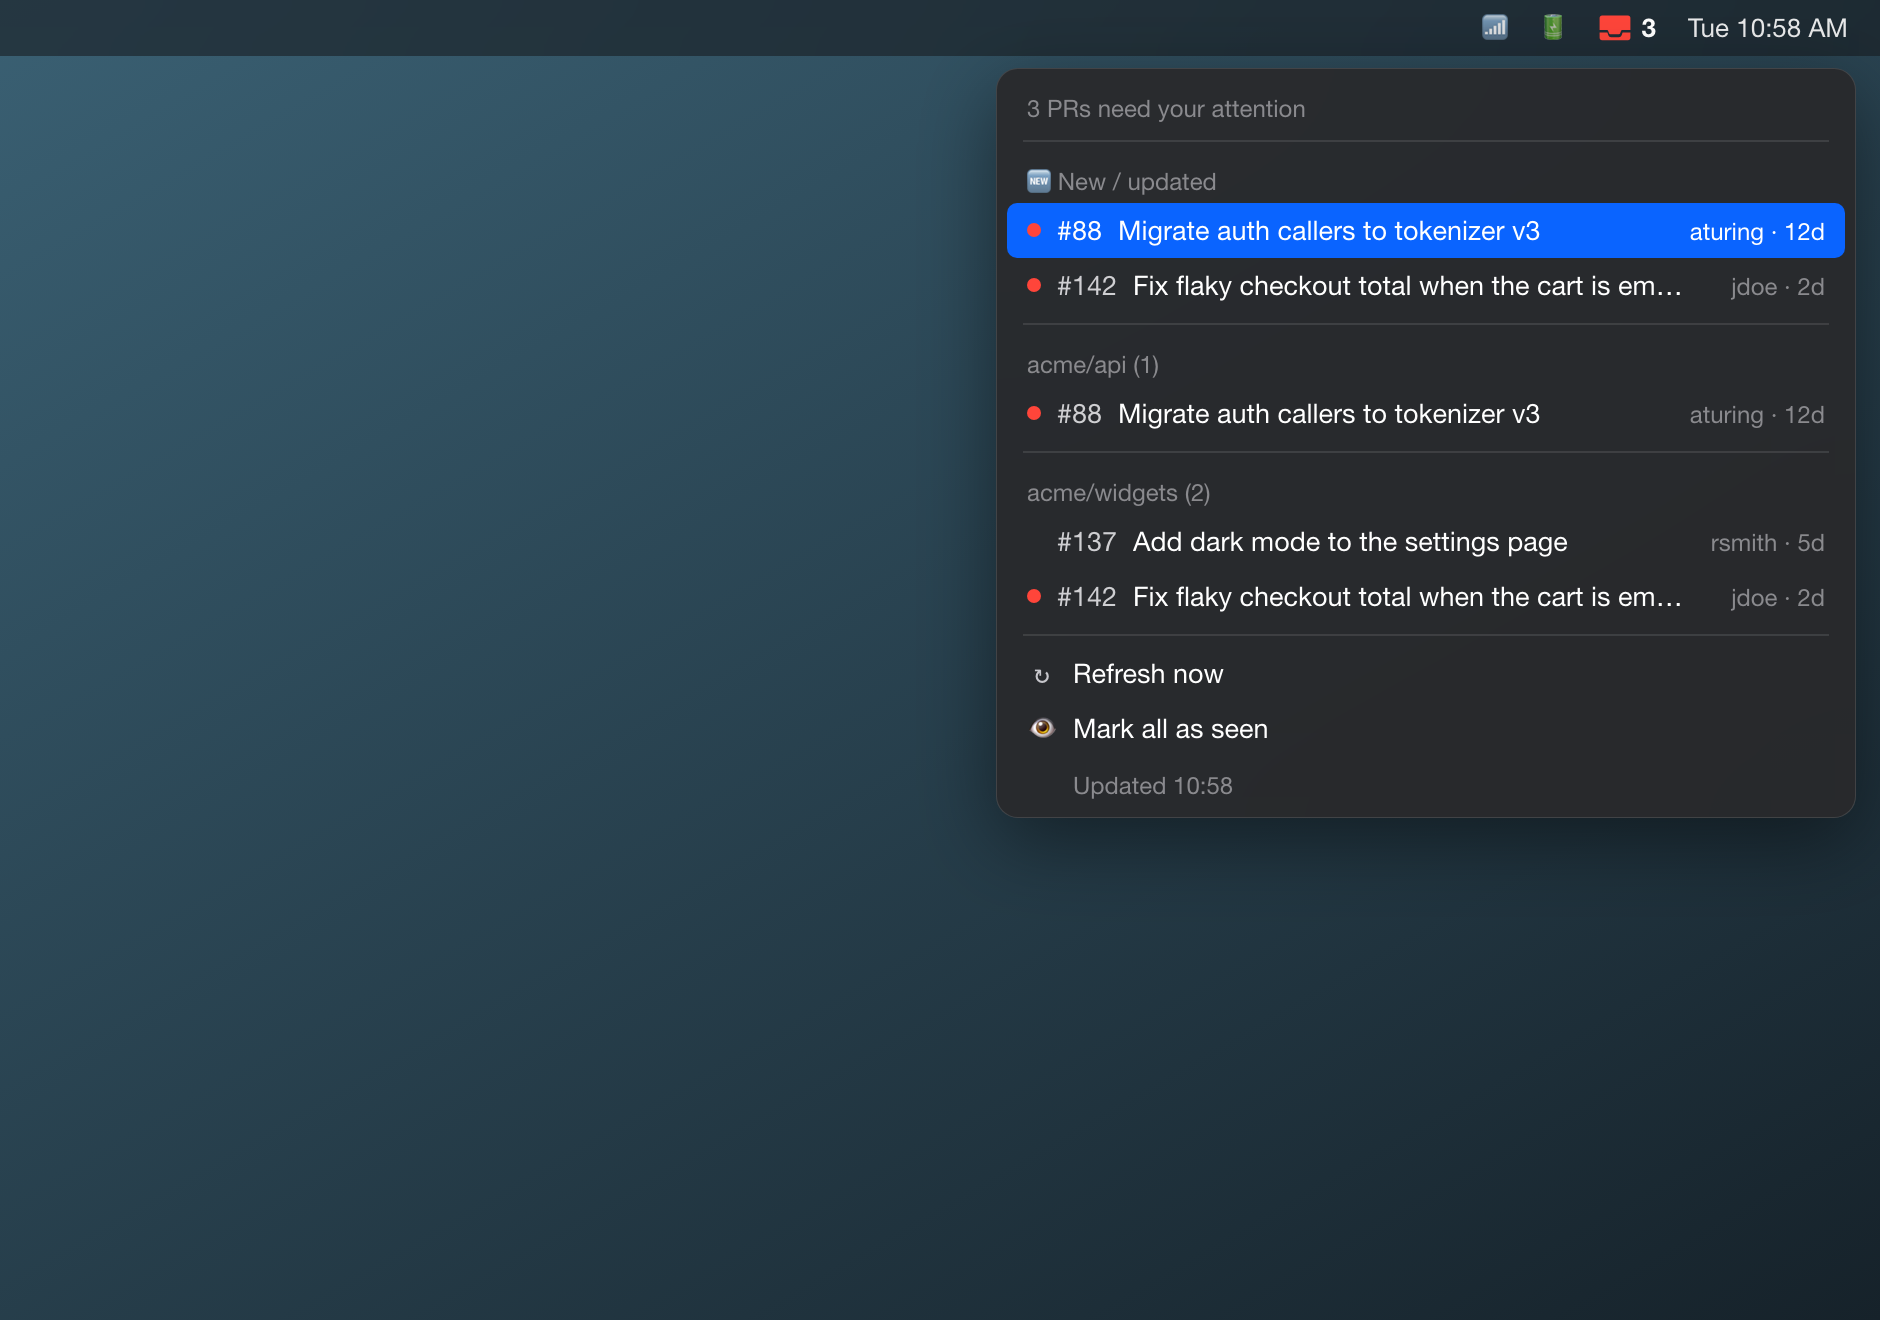
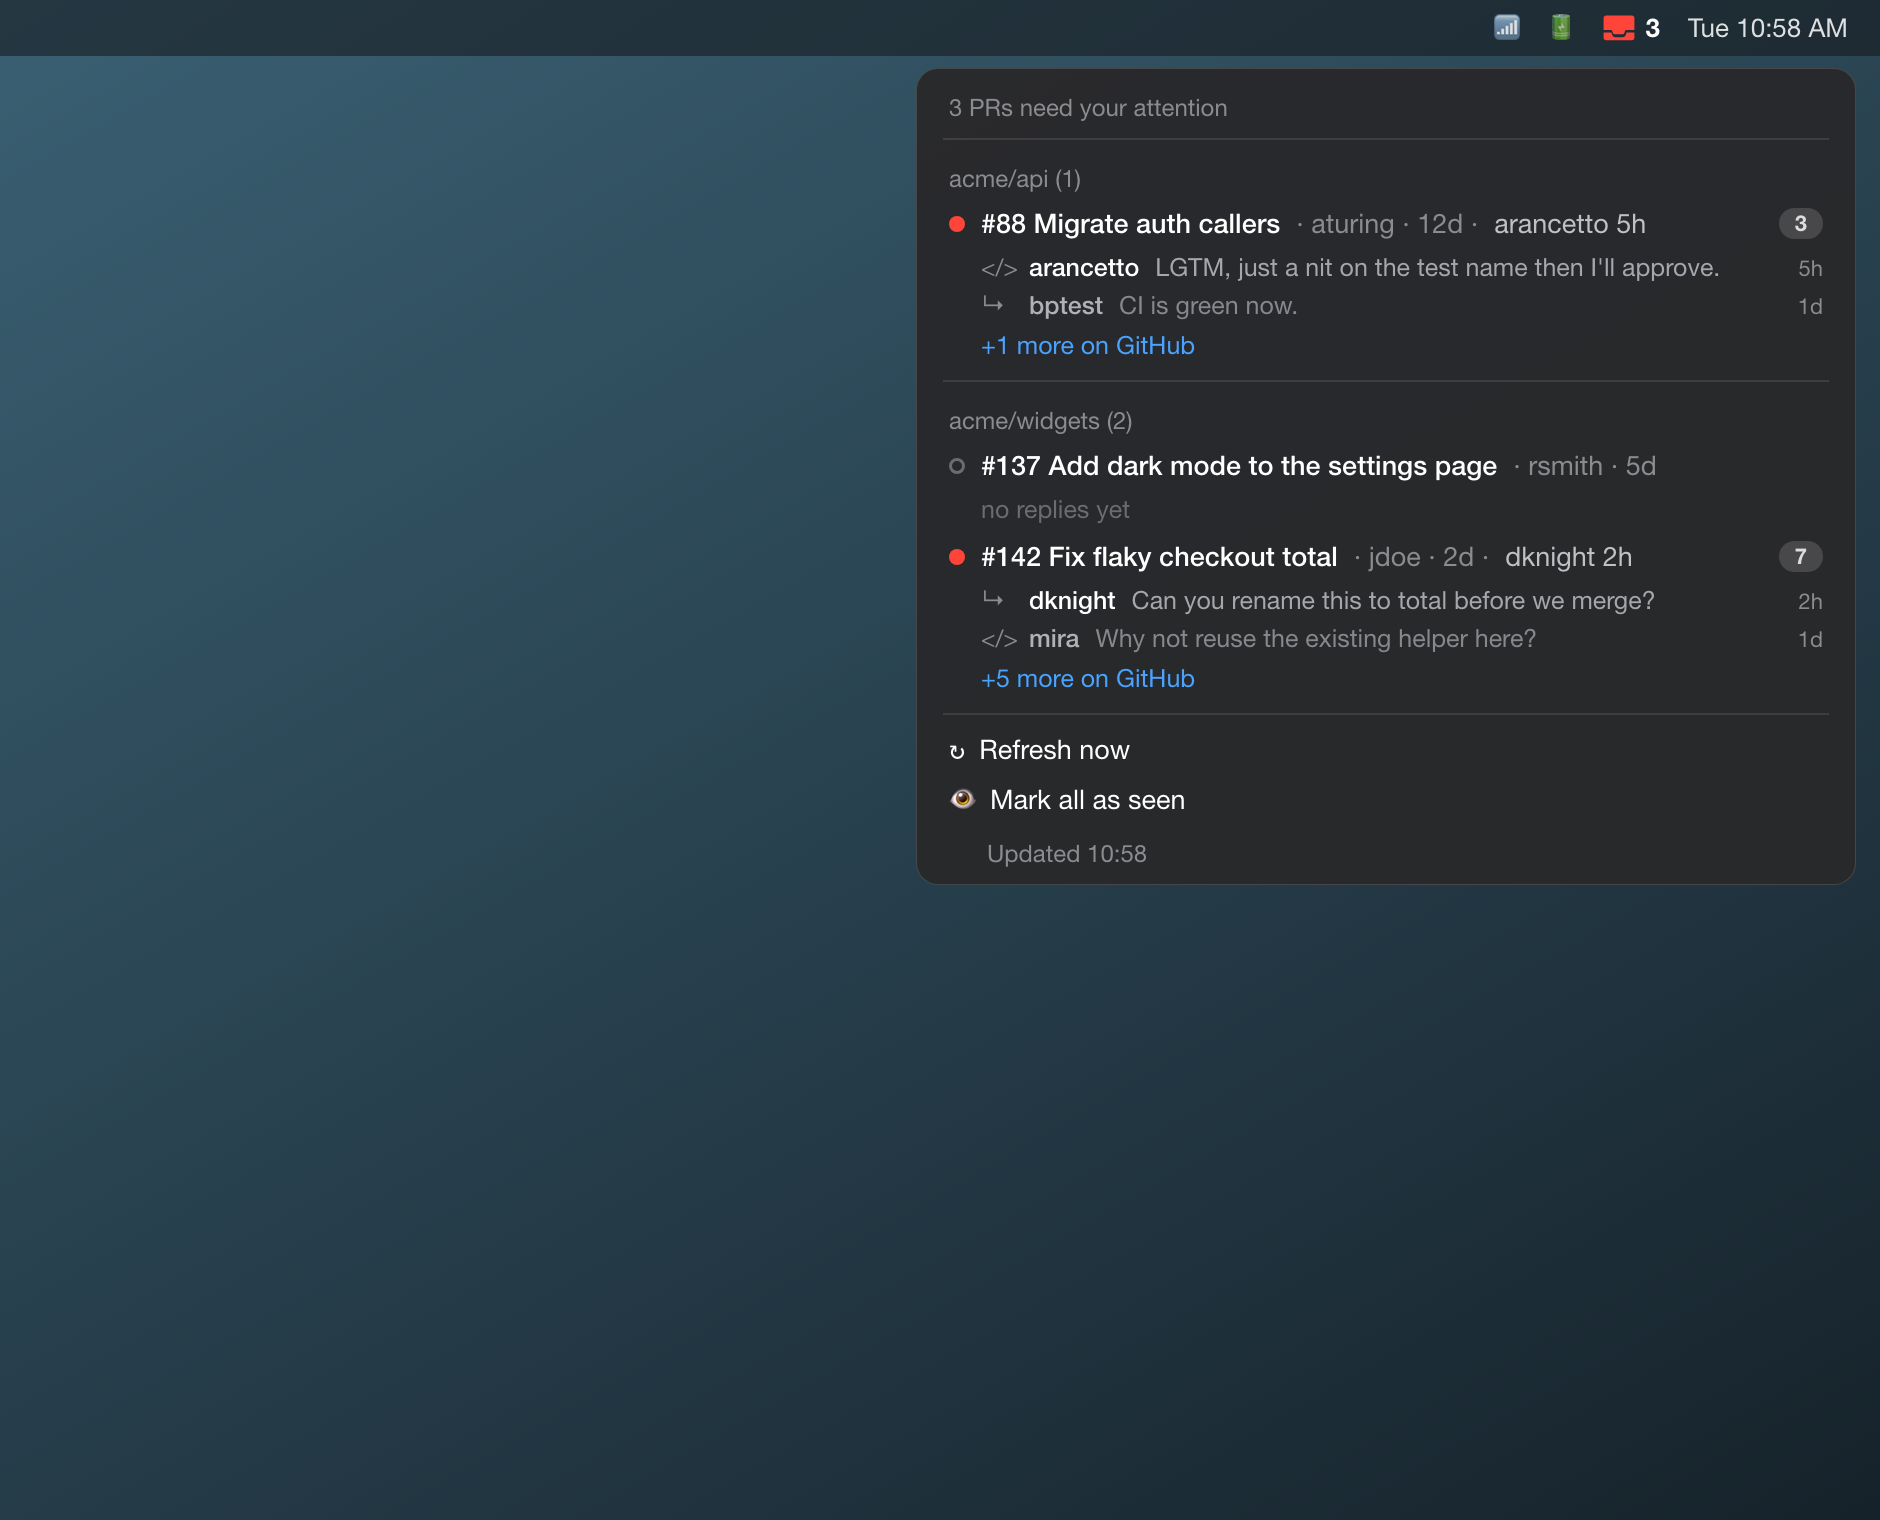
Add per-PR comment previews to the menu (Version 3 "row summary")
Each PR row now previews its recent comments — conversation replies + inline
review comments — so you can see who responded without opening GitHub:

- PR row shows the latest replier + time, a comment-count badge, and the
  unread dot; up to 2 recent comments follow (review vs reply glyph), each
  linking to that exact comment; "+n more" opens the conversation tab; PRs
  with none show "no replies yet".
- Comments ride the cache-first model: the background --fetch enriches each PR
  via /issues/{n}/comments + /pulls/{n}/comments and caches them, so the menu
  still opens instantly. Unread tracking extends seen.json to comment times.
- Widen the digest with is:open is:pr author:@user so replies on PRs you opened
  surface too.

gh_prs.py: humanize(), fetch_comments(), attach_comments(), author query.
swiftbar_plugin.py: pr_block() render, comment-aware save_seen, demo_data().

diff --git a/swiftbar_plugin.py b/swiftbar_plugin.py
@@ -28,10 +28,11 @@ import os
 import subprocess
 import sys
 from collections import defaultdict
-from datetime import datetime, timezone
+from datetime import datetime, timedelta, timezone
 from pathlib import Path
 
-from gh_prs import DigestError, collect_prs, get_token, load_env
+from gh_prs import (DigestError, attach_comments, collect_prs, get_token,
+                    humanize, load_env)
 
 REPO_DIR = Path(__file__).resolve().parent
 LAUNCHER = REPO_DIR / "swiftbar-plugins" / "prdigest.1h.sh"
@@ -46,24 +47,45 @@ REFRESH_TTL = 45
 # in-flight marker is cleared so the spinner can never wedge permanently.
 MARKER_TTL = 60
 
-# Fake data for screenshots/docs — set PR_DIGEST_DEMO=1 to render without a
-# token or network call. Two of these count as "new" (see DEMO_SEEN).
-DEMO_PRS = [
-    {"repo": "acme/widgets", "number": 142, "author": "jdoe", "age_days": 2,
-     "title": "Fix flaky checkout total when the cart is empty",
-     "url": "https://github.com/acme/widgets/pull/142",
-     "updated_at": "2026-06-23T09:00:00Z"},
-    {"repo": "acme/widgets", "number": 137, "author": "rsmith", "age_days": 5,
-     "title": "Add dark mode to the settings page",
-     "url": "https://github.com/acme/widgets/pull/137",
-     "updated_at": "2026-06-18T12:00:00Z"},
-    {"repo": "acme/api", "number": 88, "author": "aturing", "age_days": 12,
-     "title": "Migrate auth callers to tokenizer v3",
-     "url": "https://github.com/acme/api/pull/88",
-     "updated_at": "2026-06-22T17:30:00Z"},
-]
-# #137 already seen, so only #142 and #88 light up as new.
-DEMO_SEEN = {"https://github.com/acme/widgets/pull/137": "2026-06-18T12:00:00Z"}
+def demo_data() -> tuple[list[dict], dict[str, str]]:
+    """Fake PRs + comments for screenshots/docs (PR_DIGEST_DEMO=1) — no token,
+    no network. Timestamps are relative to now so previews read '2h', '1d'."""
+    now = datetime.now(timezone.utc)
+
+    def ago(**kw) -> str:
+        return (now - timedelta(**kw)).isoformat()
+
+    prs = [
+        {"repo": "acme/widgets", "number": 142, "author": "jdoe", "age_days": 2,
+         "title": "Fix flaky checkout total when the cart is empty",
+         "url": "https://github.com/acme/widgets/pull/142",
+         "updated_at": ago(hours=2), "comment_count": 7, "comments": [
+            {"author": "dknight", "type": "reply", "created_at": ago(hours=2),
+             "html_url": "https://github.com/acme/widgets/pull/142#c1",
+             "body": "Can you rename this to total before we merge? Otherwise looks great."},
+            {"author": "mira", "type": "review", "created_at": ago(days=1),
+             "html_url": "https://github.com/acme/widgets/pull/142#c2",
+             "body": "Why not reuse the existing helper here?"}]},
+        {"repo": "acme/widgets", "number": 137, "author": "rsmith", "age_days": 5,
+         "title": "Add dark mode to the settings page",
+         "url": "https://github.com/acme/widgets/pull/137",
+         "updated_at": ago(days=5), "comment_count": 0, "comments": []},
+        {"repo": "acme/api", "number": 88, "author": "aturing", "age_days": 12,
+         "title": "Migrate auth callers to tokenizer v3",
+         "url": "https://github.com/acme/api/pull/88",
+         "updated_at": ago(hours=5), "comment_count": 3, "comments": [
+            {"author": "arancetto", "type": "review", "created_at": ago(hours=5),
+             "html_url": "https://github.com/acme/api/pull/88#c1",
+             "body": "LGTM, just a nit on the test name then I'll approve."},
+            {"author": "bptest", "type": "reply", "created_at": ago(days=1),
+             "html_url": "https://github.com/acme/api/pull/88#c2",
+             "body": "CI is green now."}]},
+    ]
+    for pr in prs:
+        pr["latest"] = pr["comments"][0] if pr["comments"] else None
+    # #137 already seen (calm); #142 & #88 have unread replies.
+    seen = {"https://github.com/acme/widgets/pull/137": ago(days=5)}
+    return prs, seen
 
 
 # --------------------------------------------------------------------------- #
@@ -88,7 +110,15 @@ def load_seen() -> dict[str, str]:
 
 
 def save_seen(prs: list[dict]) -> None:
-    seen = {pr["url"]: pr["updated_at"] for pr in prs}
+    # Store the newest signal per PR — its own updated_at OR its latest comment,
+    # whichever is later — so replies older than that read as "seen".
+    seen: dict[str, str] = {}
+    for pr in prs:
+        ts = pr.get("updated_at", "")
+        latest = pr.get("latest")
+        if latest and latest.get("created_at", "") > ts:
+            ts = latest["created_at"]
+        seen[pr["url"]] = ts
     try:
         (state_dir() / "seen.json").write_text(json.dumps(seen), encoding="utf-8")
     except OSError:
@@ -174,6 +204,7 @@ def fetch_and_cache(trigger_redraw: bool) -> None:
     try:
         token = get_token()
         prs = collect_prs(token)
+        attach_comments(token, prs)  # enrich with recent comments
         save_cache(prs, error=None)
     except DigestError as exc:
         # Keep the last-good list; attach a one-line error so the menu can warn.
@@ -234,7 +265,7 @@ def emit(text: str = "", **params: str) -> None:
 
 def render_menu(prs: list[dict], seen: dict[str, str], *, spinner: bool,
                 error: str | None) -> None:
-    new_prs = [pr for pr in prs if is_new(pr, seen)]
+    any_new = any(is_new(pr, seen) for pr in prs)
     count = len(prs)
 
     # --- menu bar title (single line) ---
@@ -244,7 +275,7 @@ def render_menu(prs: list[dict], seen: dict[str, str], *, spinner: bool,
         emit(sfimage="exclamationmark.triangle", sfcolor="orange")
     elif count == 0:
         emit(sfimage="checkmark.circle", sfcolor="green")
-    elif new_prs:
+    elif any_new:
         emit(str(count), sfimage="tray.full.fill", sfcolor="red")
     else:
         emit(str(count), sfimage="tray.full")
@@ -263,13 +294,6 @@ def render_menu(prs: list[dict], seen: dict[str, str], *, spinner: bool,
         emit("No PRs need your attention", color="#888888")
     elif count:
         emit(f"{count} PR(s) need your attention", color="#888888")
-
-        if new_prs:
-            print("---")
-            emit("🆕 New / updated", color="#888888")
-            for pr in sorted(new_prs, key=lambda p: p["age_days"], reverse=True):
-                pr_line(pr, new=True)
-
         by_repo: dict[str, list[dict]] = defaultdict(list)
         for pr in prs:
             by_repo[pr["repo"]].append(pr)
@@ -278,7 +302,7 @@ def render_menu(prs: list[dict], seen: dict[str, str], *, spinner: bool,
             repo_prs = by_repo[repo]
             emit(f"{repo}  ({len(repo_prs)})", color="#888888")
             for pr in sorted(repo_prs, key=lambda p: p["age_days"], reverse=True):
-                pr_line(pr, new=is_new(pr, seen))
+                pr_block(pr, seen)
 
     # --- footer actions ---
     print("---")
@@ -301,14 +325,49 @@ def cache_label() -> str:
         return "—"
 
 
-def pr_line(pr: dict, new: bool) -> None:
+def pr_block(pr: dict, seen: dict[str, str]) -> None:
+    """Version 3 'row summary': the PR row carries the latest replier + a
+    comment count badge + unread dot; up to 2 recent comments follow, then
+    '+n more' (or 'no replies yet')."""
+    seen_ts = seen.get(pr["url"], "")
+    comments = pr.get("comments", [])
+    count = pr.get("comment_count", 0)
+    latest = pr.get("latest")
     age = "today" if pr["age_days"] == 0 else f"{pr['age_days']}d"
-    title = truncate(sanitize(pr["title"]))
-    label = f"#{pr['number']}  {title}  ·  {pr['author']} · {age}"
-    if new:
-        emit(label, href=pr["url"], sfimage="circle.fill", sfcolor="red")
+
+    # --- the PR row ---
+    summary = ""
+    if latest:
+        summary = f"  ·  {latest['author']} {humanize(latest['created_at'])}"
+    label = f"#{pr['number']}  {truncate(sanitize(pr['title']), 44)}  ·  {pr['author']} · {age}{summary}"
+    params: dict[str, str] = {"href": pr["url"]}
+    if count:
+        params["badge"] = str(count)
+    if latest:
+        params["tooltip"] = sanitize(latest["body"])[:200]
+    if is_new(pr, seen):
+        params["sfimage"], params["sfcolor"] = "circle.fill", "red"
     else:
-        emit(label, href=pr["url"])
+        params["sfimage"], params["sfcolor"] = "circle", "#6b6b70"
+    emit(label, **params)
+
+    # --- up to 2 recent comments ---
+    for c in comments[:2]:
+        glyph = ("chevron.left.forwardslash.chevron.right"
+                 if c["type"] == "review" else "arrowshape.turn.up.left")
+        line = f"{c['author']}  {truncate(sanitize(c['body']), 46)} · {humanize(c['created_at'])}"
+        cp: dict[str, str] = {"href": c["html_url"], "sfimage": glyph,
+                              "tooltip": sanitize(c["body"])[:280]}
+        if c["created_at"] <= seen_ts:  # already seen → muted
+            cp["color"] = "#8b8b90"
+        emit(line, **cp)
+
+    # --- tail ---
+    if count > 2:
+        emit(f"+{count - 2} more on GitHub", href=pr["url"],
+             sfimage="arrow.up.right.square", color="#4aa3ff")
+    elif count == 0:
+        emit("no replies yet", color="#6b6b70")
 
 
 # --------------------------------------------------------------------------- #
@@ -317,7 +376,8 @@ def main() -> int:
     reason = os.environ.get("SWIFTBAR_PLUGIN_REFRESH_REASON", "")
 
     if os.environ.get("PR_DIGEST_DEMO"):
-        render_menu(DEMO_PRS, DEMO_SEEN, spinner="--spinner" in args, error=None)
+        demo_prs, demo_seen = demo_data()
+        render_menu(demo_prs, demo_seen, spinner="--spinner" in args, error=None)
         return 0
 
     if "--fetch" in args:

diff --git a/gh_prs.py b/gh_prs.py
@@ -27,6 +27,7 @@ ENV_PATH = REPO_DIR / ".env"
 QUERIES = {
     "Review requested": "is:open is:pr review-requested:@me",
     "Assigned to you": "is:open is:pr assignee:@me",
+    "Opened by you": "is:open is:pr author:@me",
 }
 
 
@@ -143,10 +144,91 @@ def normalize(item: dict) -> dict:
 
 
 def collect_prs(token: str) -> list[dict]:
-    """Run both searches and de-duplicate by PR URL."""
+    """Run every search and de-duplicate by PR URL."""
     by_url: dict[str, dict] = {}
     for query in QUERIES.values():
         for item in search_prs(query, token):
             pr = normalize(item)
             by_url.setdefault(pr["url"], pr)
     return list(by_url.values())
+
+
+def humanize(iso: str) -> str:
+    """Compact relative time from an ISO timestamp: 'just now', '5m', '2h', '3d'."""
+    if not iso:
+        return ""
+    try:
+        when = datetime.fromisoformat(iso.replace("Z", "+00:00"))
+    except ValueError:
+        return ""
+    secs = (datetime.now(timezone.utc) - when).total_seconds()
+    if secs < 60:
+        return "just now"
+    mins = secs / 60
+    if mins < 60:
+        return f"{int(mins)}m"
+    if mins < 1440:
+        return f"{int(mins // 60)}h"
+    if mins < 10080:
+        return f"{int(mins // 1440)}d"
+    return f"{int(mins // 10080)}w"
+
+
+def _auth_headers(token: str) -> dict:
+    return {
+        "Authorization": f"Bearer {token}",
+        "Accept": "application/vnd.github+json",
+        "X-GitHub-Api-Version": "2022-11-28",
+    }
+
+
+def _get_list(url: str, token: str) -> list[dict]:
+    """GET a JSON array endpoint with the shared error handling."""
+    try:
+        resp = requests.get(url, headers=_auth_headers(token), timeout=TIMEOUT)
+    except requests.RequestException as exc:
+        raise DigestError(f"Network error talking to GitHub: {exc}") from exc
+    _raise_for_api_errors(resp)
+    payload = resp.json()
+    return payload if isinstance(payload, list) else []
+
+
+def _normalize_comment(item: dict, kind: str) -> dict:
+    return {
+        "author": (item.get("user") or {}).get("login", "unknown"),
+        "body": (item.get("body") or "").strip(),
+        "html_url": item.get("html_url", ""),
+        "created_at": item.get("created_at", ""),
+        "type": kind,  # "reply" (conversation) or "review" (inline code comment)
+    }
+
+
+def fetch_comments(token: str, repo: str, number: int) -> dict:
+    """Recent conversation replies + inline review comments for one PR.
+
+    Returns {"comments": <up to 5, newest first>, "count": <total fetched>}.
+    """
+    issues = _get_list(
+        f"{API_ROOT}/repos/{repo}/issues/{number}/comments?per_page=100", token)
+    reviews = _get_list(
+        f"{API_ROOT}/repos/{repo}/pulls/{number}/comments?per_page=100", token)
+    merged = (
+        [_normalize_comment(c, "reply") for c in issues]
+        + [_normalize_comment(c, "review") for c in reviews]
+    )
+    merged.sort(key=lambda c: c["created_at"], reverse=True)
+    return {"comments": merged[:5], "count": len(merged)}
+
+
+def attach_comments(token: str, prs: list[dict]) -> list[dict]:
+    """Enrich each PR in place with its recent comments. Per-PR errors are
+    swallowed so one bad PR can't blank the whole digest."""
+    for pr in prs:
+        try:
+            data = fetch_comments(token, pr["repo"], pr["number"])
+        except DigestError:
+            data = {"comments": [], "count": 0}
+        pr["comments"] = data["comments"]
+        pr["comment_count"] = data["count"]
+        pr["latest"] = data["comments"][0] if data["comments"] else None
+    return prs

diff --git a/README.md b/README.md
@@ -22,12 +22,13 @@ The icon at a glance:
 
 ## What it does
 
-Using the GitHub REST search API (`GET /search/issues`), it runs two queries:
+Using the GitHub REST search API (`GET /search/issues`), it runs three queries:
 
 - `is:open is:pr review-requested:@me` — PRs waiting on your review
 - `is:open is:pr assignee:@me` — PRs assigned to you
+- `is:open is:pr author:@me` — PRs you opened
 
-It de-duplicates across the two lists, prints a clean digest grouped by repo
+It de-duplicates across the lists, prints a clean digest grouped by repo
 (title, number, author, repo, age in days, URL) with a total count at the top,
 and also writes the same digest to a timestamped file in `./digests/`. If
 nothing's waiting, it prints `No PRs need your attention.`
@@ -121,14 +122,29 @@ fetch code in `gh_prs.py`.
 
 The red badge **persists through hourly refreshes** and clears once you **open
 the menu** (SwiftBar tells the plugin it was opened via
-`SWIFTBAR_PLUGIN_REFRESH_REASON=MenuOpen`). New/updated PRs are also listed in a
-`🆕 New / updated` section at the top and flagged with a red dot. There's a
-**Mark all as seen** item to clear the badge manually, and **Refresh now** to
-re-fetch on demand.
+`SWIFTBAR_PLUGIN_REFRESH_REASON=MenuOpen`). PRs with new activity carry a red dot
+in the list. There's a **Mark all as seen** item to clear the badge manually,
+and **Refresh now** to re-fetch on demand.
+
+### Comment previews
+
+Each PR row also previews its recent **comments** — conversation replies and
+inline review comments — so you can see who responded without opening GitHub:
+
+- The PR row shows the **latest replier + time** and a **comment-count badge**.
+- Up to **2** recent comments appear beneath it; review comments carry a code
+  glyph, replies a reply glyph. Click one to jump straight to that comment.
+- **+n more on GitHub** opens the PR's conversation tab; PRs with none show
+  *no replies yet*.
+- Unread comments (newer than your last look) render brighter; the full text is
+  on hover.
+
+Comments are fetched in the background per PR (`/issues/{n}/comments` +
+`/pulls/{n}/comments`) and cached, so the menu still opens instantly.
 
 State lives in `state/` (git-ignored): `seen.json` maps PR URL → last-seen
-`updated_at` (drives the badge), and `cache.json` holds the last fetched PR
-list so the menu can draw instantly.
+timestamp (drives the badge + unread comments), and `cache.json` holds the last
+fetched PRs **and their comments** so the menu can draw instantly.
 
 > The SwiftBar plugin handles the live view; it does **not** write to
 > `digests/`. The dated digest files stay the job of the CLI / launchd schedule